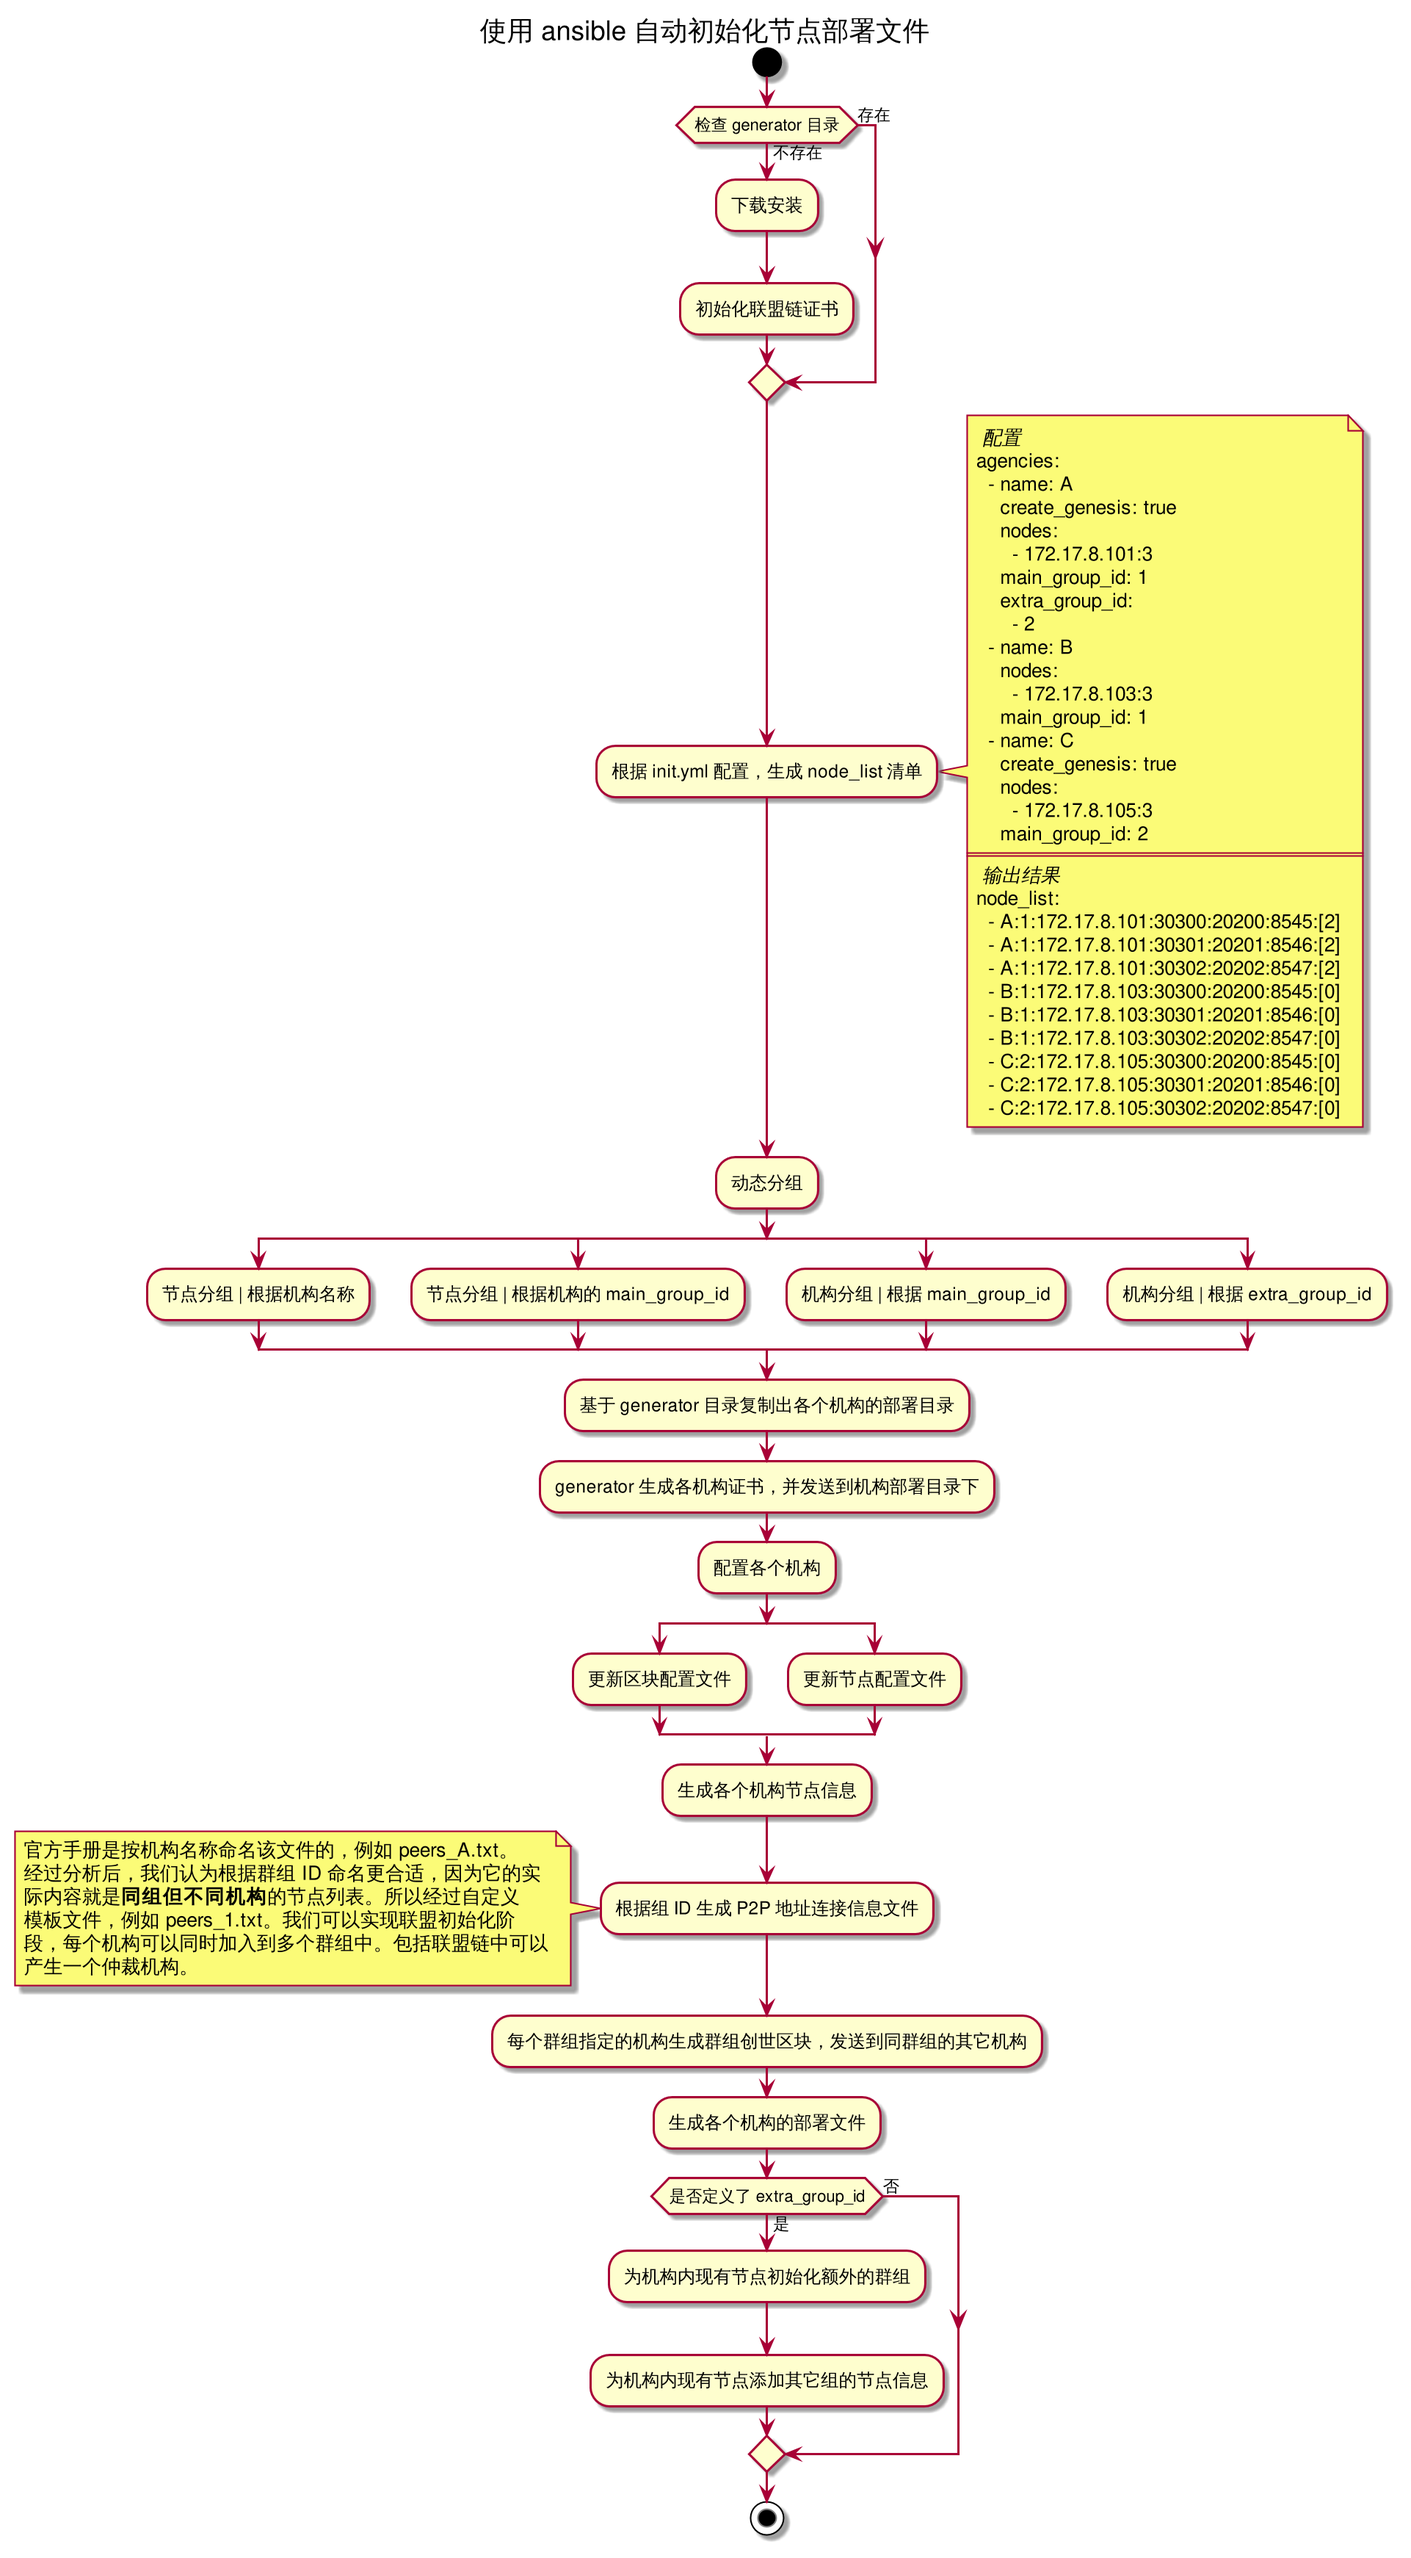
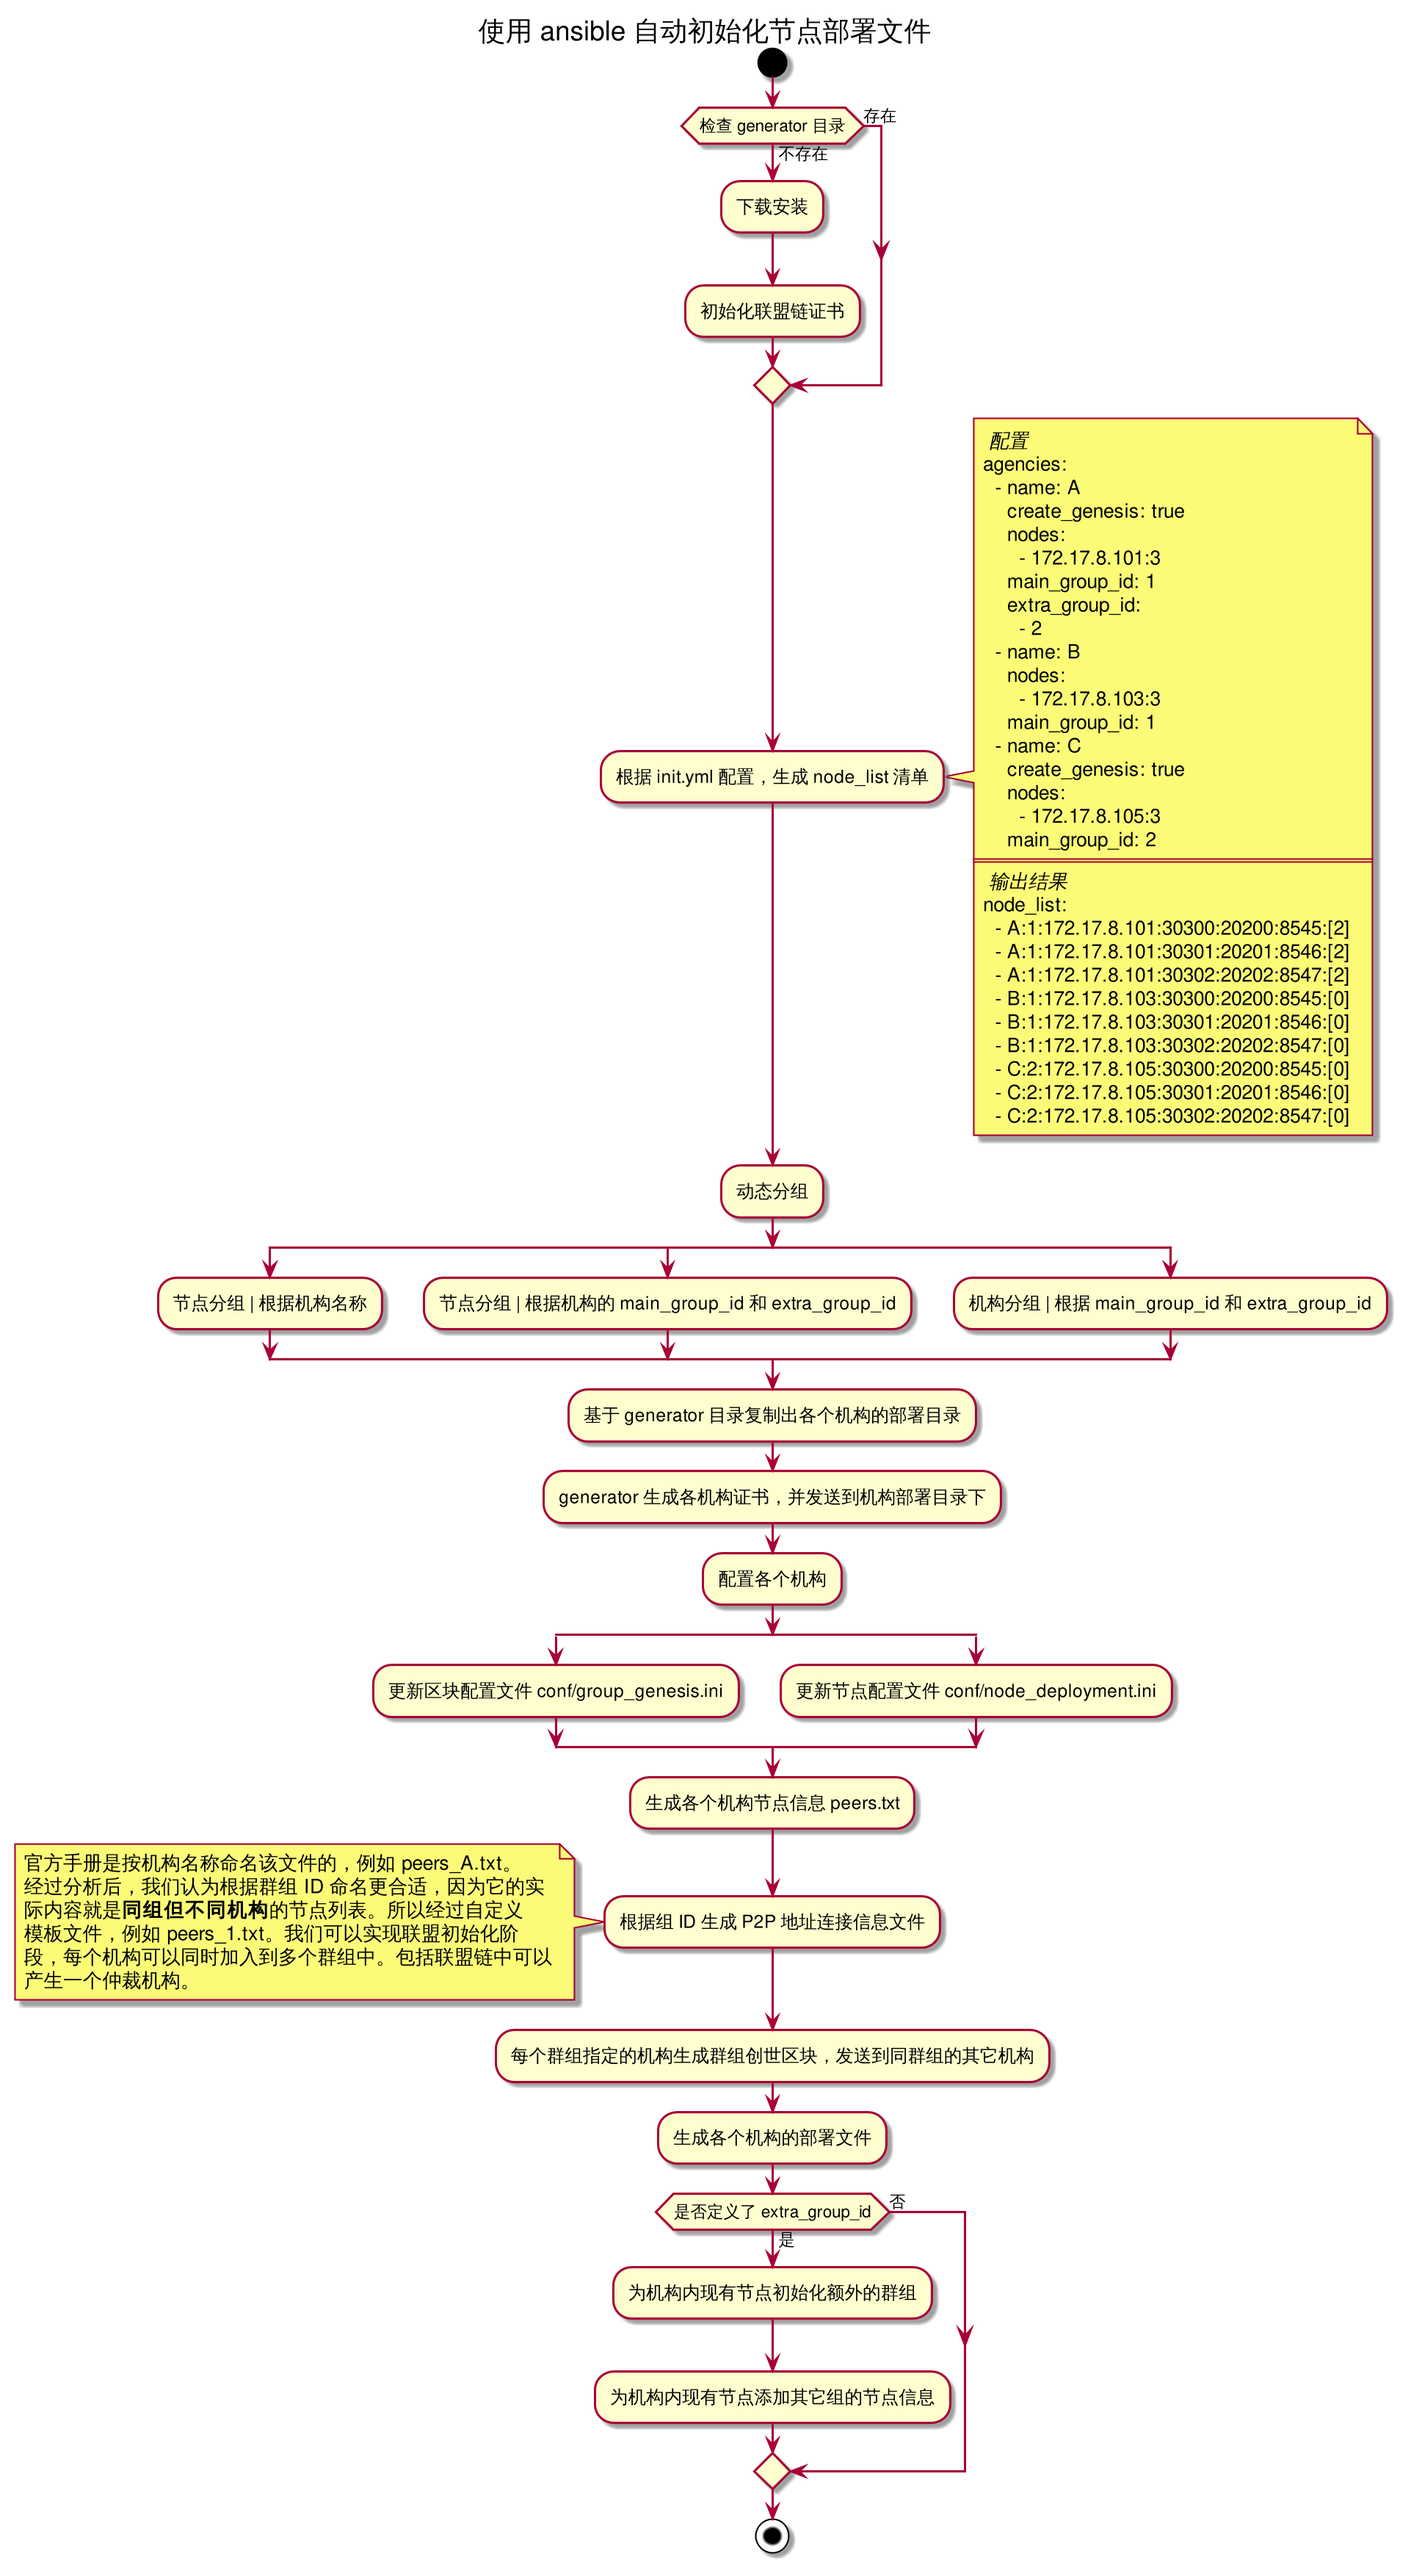
REV: 补充一些代码注释。更新了流程图。

diff --git a/README.md b/README.md
@@ -40,36 +40,36 @@
    例如
 
 ```
-	# 变量注释
-	# name:           （必填）机构名称
-	# create_genesis: 是否生成创世区块，同组(根据 main_group_id 判断)必须有且只有 1 个创世区块机构。（不设置则默认为 false）
-	# nodes:          （必填）机构各节点连接信息。格式 <ip>:<节点数>。如果只填写 IP，则默认为 1 个节点。同 IP 多节点会自动递增对应端口。
-	# main_group_id:  （必填）群组编号
-	# extra_group_id: （可选）额外要加入的目标群组编号
+  	# 变量注释
+  	# name:           （必填）机构名称
+  	# create_genesis: 是否生成创世区块，同组(根据 main_group_id 判断)必须有且只有 1 个创世区块机构。（不设置则默认为 false）
+  	# nodes:          （必填）机构各节点连接信息。格式 <ip>:<节点数>。如果只填写 IP，则默认为 1 个节点。同 IP 多节点会自动递增对应端口。
+  	# main_group_id:  （必填）群组编号
+  	# extra_group_id: （可选）额外要加入的目标群组编号
 
-	agencies:
-	 - name: A
-	   create_genesis: true
-	   nodes:
-	     - 172.17.8.101:5
-	     - 172.17.8.102:5
-	   main_group_id: 1
-	   extra_group_id:
-	     - 2
-	 - name: B
-	   nodes:
-	     - 172.17.8.103:5
-	     - 172.17.8.104:5
-	   main_group_id: 1
-	 - name: C
-	   create_genesis: true
-	   nodes:
-	     - 172.17.8.105:5
-	     - 172.17.8.106:5
-	   main_group_id: 2
+  	agencies:
+  	 - name: A
+  	   create_genesis: true
+  	   nodes:
+  	     - 172.17.8.101:5
+  	     - 172.17.8.102:5
+  	   main_group_id: 1
+  	   extra_group_id:
+  	     - 2
+  	 - name: B
+  	   nodes:
+  	     - 172.17.8.103:5
+  	     - 172.17.8.104:5
+  	   main_group_id: 1
+  	 - name: C
+  	   create_genesis: true
+  	   nodes:
+  	     - 172.17.8.105:5
+  	     - 172.17.8.106:5
+  	   main_group_id: 2
 
-  # true 表示使用国密模式
-  fisco_gm_enabled: true
+    # true 表示使用国密模式
+    fisco_gm_enabled: true
 ```
 
    请根据文件头部的变量注释，编排好目标配置的信息。
@@ -77,14 +77,14 @@
 1. 开始生成配置文件。
 
    ```
-   > ansible-playbook -i inventories/my_inventory/hosts.ini fisco_bcos.yml
+   > ansible-playbook -i inventories/my_inventory/hosts.ini fisco_bcos.yml\
    ```
 
    执行过程中出现的 [WARNING] 信息可以忽略。
 
 1. 如无意外，你会在 `inventories/my_inventory/deploy` 目录下找到相关的配置内容。例如：
 
-   ```
+	```
     > find inventories/my_inventory/deploy/agency_*/fisco* -type d -name "node_*" | sort -n
 
     inventories/my_inventory/deploy/agency_A/fisco_deploy_agency_A/node_172.17.8.101_30300
@@ -93,7 +93,7 @@
     inventories/my_inventory/deploy/agency_B/fisco_deploy_agency_B/node_172.17.8.104_30300
     inventories/my_inventory/deploy/agency_C/fisco_deploy_agency_C/node_172.17.8.105_30300
     inventories/my_inventory/deploy/agency_C/fisco_deploy_agency_C/node_172.17.8.106_30300
-   ```
+    ```
 
 1. 查看 `inventories/my_inventory/deploy/node_list.yml` 文件，内容类似于：
 
@@ -109,6 +109,7 @@
 	  - C:2:172.17.8.106:30300:20200:8545:[0]
 	  - C:2:172.17.8.107:30300:20200:8545:[0]
 	```
+
 	确保相关的 IP 和端口能访问即可
 
 1. 把相关文件夹上传到对应的服务器上，执行启动命令即可。
@@ -119,8 +120,6 @@
 
 假设第一次初始化的配置是
 
-
-	```
 	agencies:
 	 - name: A
 	   create_genesis: true
@@ -141,11 +140,10 @@
 	     - 172.17.8.105
 	     - 172.17.8.106
 	   main_group_id: 2
-	```
+
 
 假设要给机构 A 的 172.17.8.101 和 172.17.8.102 服务器，分别增加至 5 个节点，就把 `172.17.8.101` 改成 `172.17.8.101:5`，`172.17.8.102` 改成 `172.17.8.102:5`。也可以增加 IP 和节点，例如 `172.17.8.110:5`：
 
-	```
 	agencies:
 	 - name: A
 	   create_genesis: true
@@ -156,13 +154,10 @@
 	   main_group_id: 1
 	   extra_group_id:
 	     - 2
-	```
 
 然后再次执行
 
-	```
 	> ansible-playbook -i inventories/my_inventory/hosts.ini fisco_bcos.yml
-	```
 
 执行完成后，在对应的机构目录下，你可以看到类似 `fisco_deploy_agency_A_expand_1917645e6744e1360fba72fa4cf8cc47` 这样的目录，就是新增的节点配置了。
 
